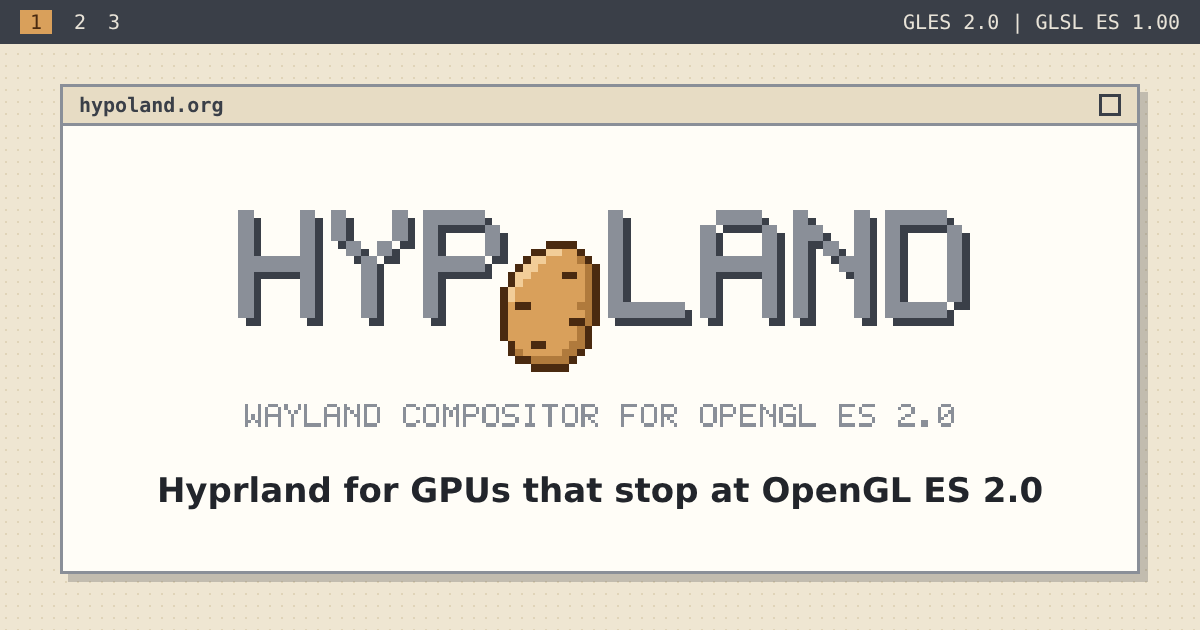
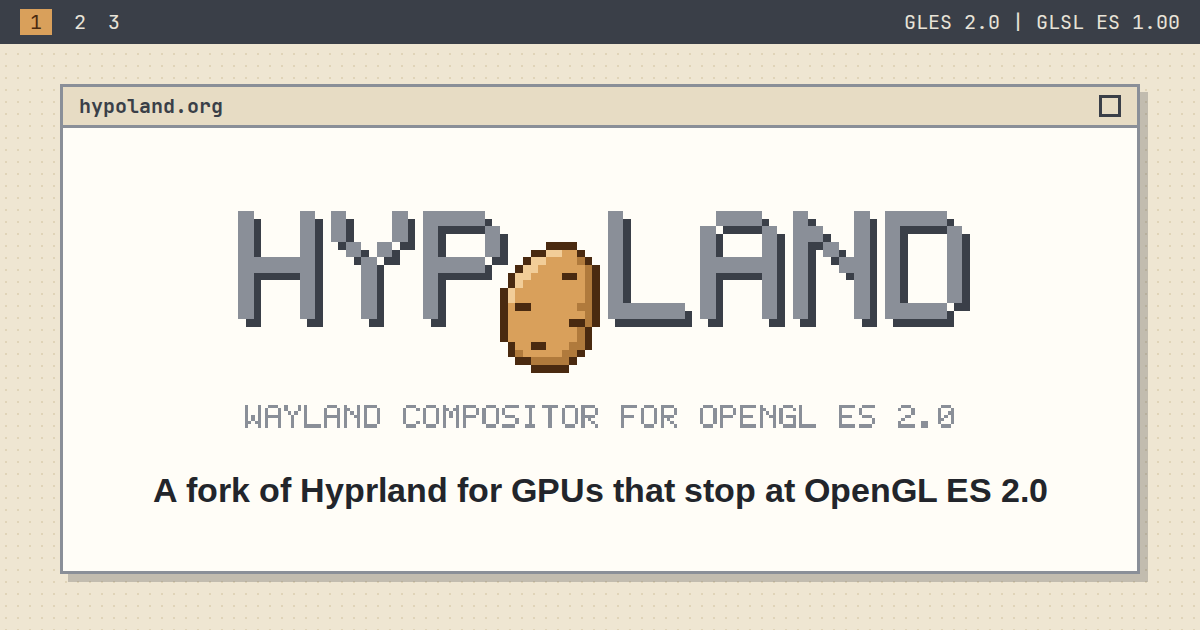
web: the tagline says "a fork of Hyprland", not "Hyprland for ..."
Hyprland's trademark policy of 2026-11-11 (https://hypr.land/trademark-usage/)
does not allow its name in a product name in a way that suggests official
status. "Hyprland for GPUs that stop at OpenGL ES 2.0" read as a Hyprland
edition; the page title, heading, link preview text and image now say
"A fork of Hyprland for GPUs that stop at OpenGL ES 2.0". AGENTS.md notes
the policy under the hard constraints.

diff --git a/web/index.html b/web/index.html
@@ -3,18 +3,18 @@
 <head>
 <meta charset="utf-8">
 <meta name="viewport" content="width=device-width, initial-scale=1">
-<title>Hypoland: Hyprland for GPUs that stop at OpenGL ES 2.0</title>
+<title>Hypoland: a fork of Hyprland for GPUs that stop at OpenGL ES 2.0</title>
 <meta name="description" content="Hypoland is a fork of the Hyprland tiling Wayland compositor for old laptops whose GPU only supports OpenGL ES 2.0, such as the Intel GMA 4500MHD in the ThinkPad X200, where Hyprland fails with eglCreateContext failed.">
 <meta name="theme-color" content="#efe6d2">
 <meta property="og:site_name" content="Hypoland">
-<meta property="og:title" content="Hypoland: Hyprland for GPUs that stop at OpenGL ES 2.0">
-<meta property="og:description" content="Hyprland for GPUs that stop at OpenGL ES 2.0. Runs a full Omarchy desktop on a 2008 ThinkPad X200.">
+<meta property="og:title" content="Hypoland: a fork of Hyprland for GPUs that stop at OpenGL ES 2.0">
+<meta property="og:description" content="A fork of Hyprland for GPUs that stop at OpenGL ES 2.0. Runs a full Omarchy desktop on a 2008 ThinkPad X200.">
 <meta property="og:type" content="website">
 <meta property="og:url" content="https://hypoland.org/">
 <meta property="og:image" content="https://hypoland.org/og.png">
 <meta property="og:image:width" content="1200">
 <meta property="og:image:height" content="630">
-<meta property="og:image:alt" content="The Hypoland logo, pixel lettering whose O is a potato, above the line: Hyprland for GPUs that stop at OpenGL ES 2.0">
+<meta property="og:image:alt" content="The Hypoland logo, pixel lettering whose O is a potato, above the line: A fork of Hyprland for GPUs that stop at OpenGL ES 2.0">
 <meta name="twitter:card" content="summary_large_image">
 <link rel="canonical" href="https://hypoland.org/">
 <link rel="icon" type="image/svg+xml" href="icon.svg">
@@ -66,7 +66,7 @@
     <p class="title">hypoland.org</p>
     <div class="body">
       <img src="header.svg" width="760" height="240" alt="Hypoland">
-      <h1 class="tagline" id="t-hero"><span class="vh">Hypoland: </span>Hyprland for GPUs that stop at OpenGL&nbsp;ES&nbsp;2.0.</h1>
+      <h1 class="tagline" id="t-hero"><span class="vh">Hypoland: </span>A fork of Hyprland for GPUs that stop at OpenGL&nbsp;ES&nbsp;2.0.</h1>
       <p class="sub">
         Hypoland is a fork of the Hyprland tiling Wayland compositor with a renderer rewritten for
         GLES&nbsp;2.0. It runs a complete desktop on a 2008 ThinkPad X200 at 60&nbsp;fps, and your

diff --git a/scripts/web/og.html b/scripts/web/og.html
@@ -40,7 +40,7 @@ html {
   <div class="title">hypoland.org</div>
   <div class="body">
     <img src="../../assets/logo/header.svg" alt="">
-    <p class="tagline">Hyprland for GPUs that stop at OpenGL ES 2.0</p>
+    <p class="tagline">A fork of Hyprland for GPUs that stop at OpenGL ES 2.0</p>
   </div>
 </div>
 </body>

diff --git a/AGENTS.md b/AGENTS.md
@@ -283,6 +283,10 @@ Hypoland's renderer and shaders are GLES 2.0 / GLSL ES 1.00 only; that port is d
 - Renderer: GLES 2.0 only. Shaders in GLSL ES 1.00. No instancing, integer textures, MRT, or GLES 3 features.
 - Build for baseline `x86-64`. Never use `-march=native` (the desktop CPU is far newer than the X200's).
 - License: Hyprland is BSD-3. Keep upstream copyright notices and LICENSE. Don't use Hyprland's logo or imply endorsement.
+  "Hyprland" and its logo are EU-registered trademarks of Hyprland Development (policy of 2026-11-11,
+  https://hypr.land/trademark-usage/): naming Hyprland to say what Hypoland is or is compared with is fine, but never
+  as part of a product name or a tagline that reads as a Hyprland edition ("A fork of Hyprland for ...", not
+  "Hyprland for ..."; changed on the site and its link preview on 2026-11-12).
 
 ## Compatibility requirements (do not break)
 
